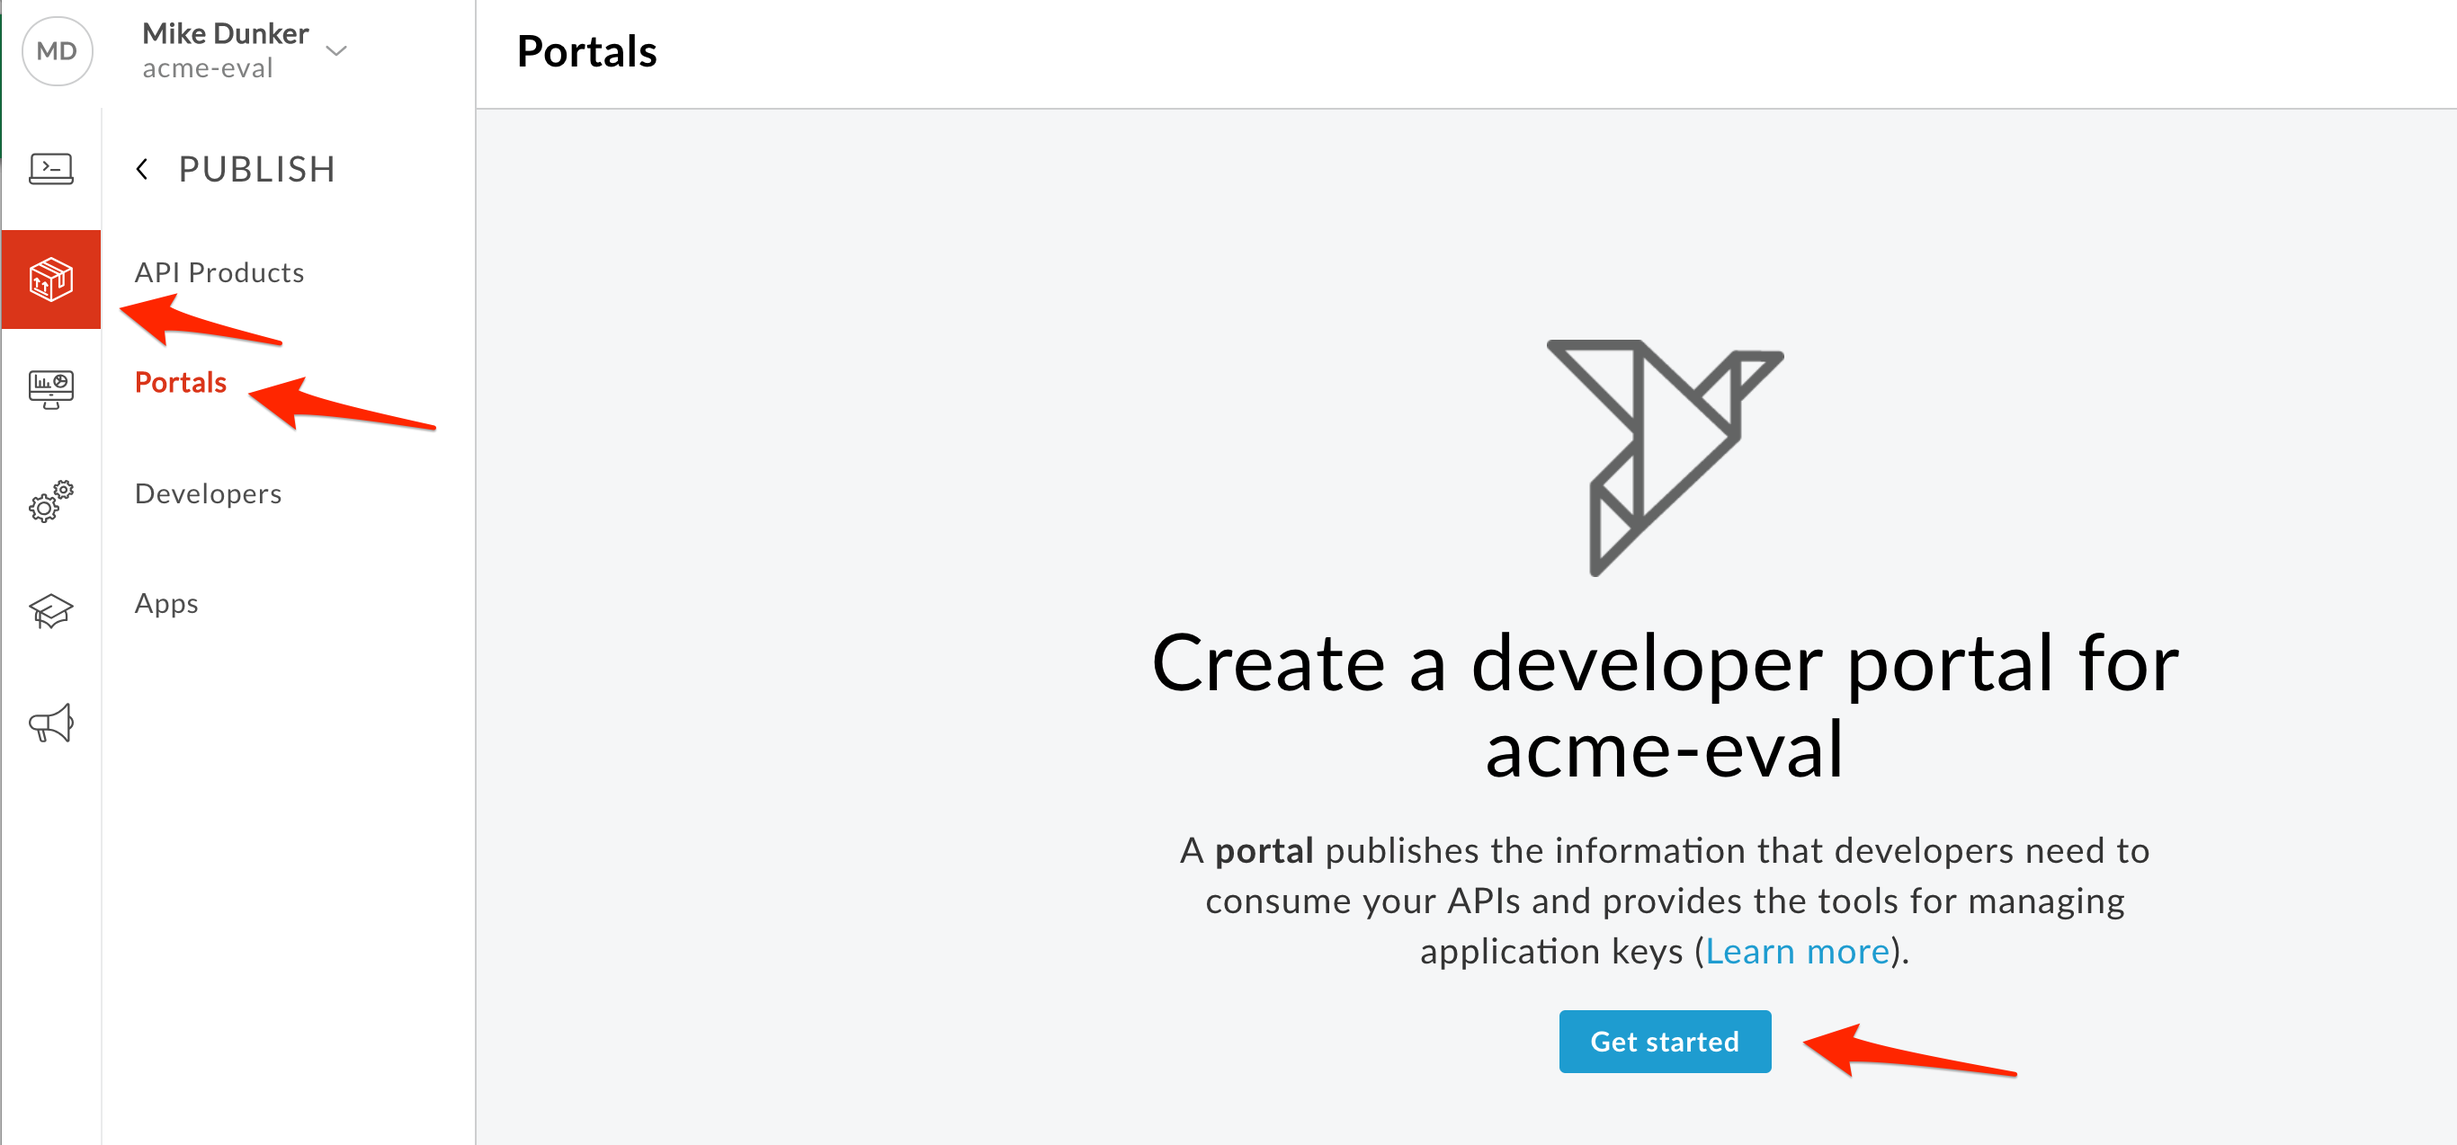
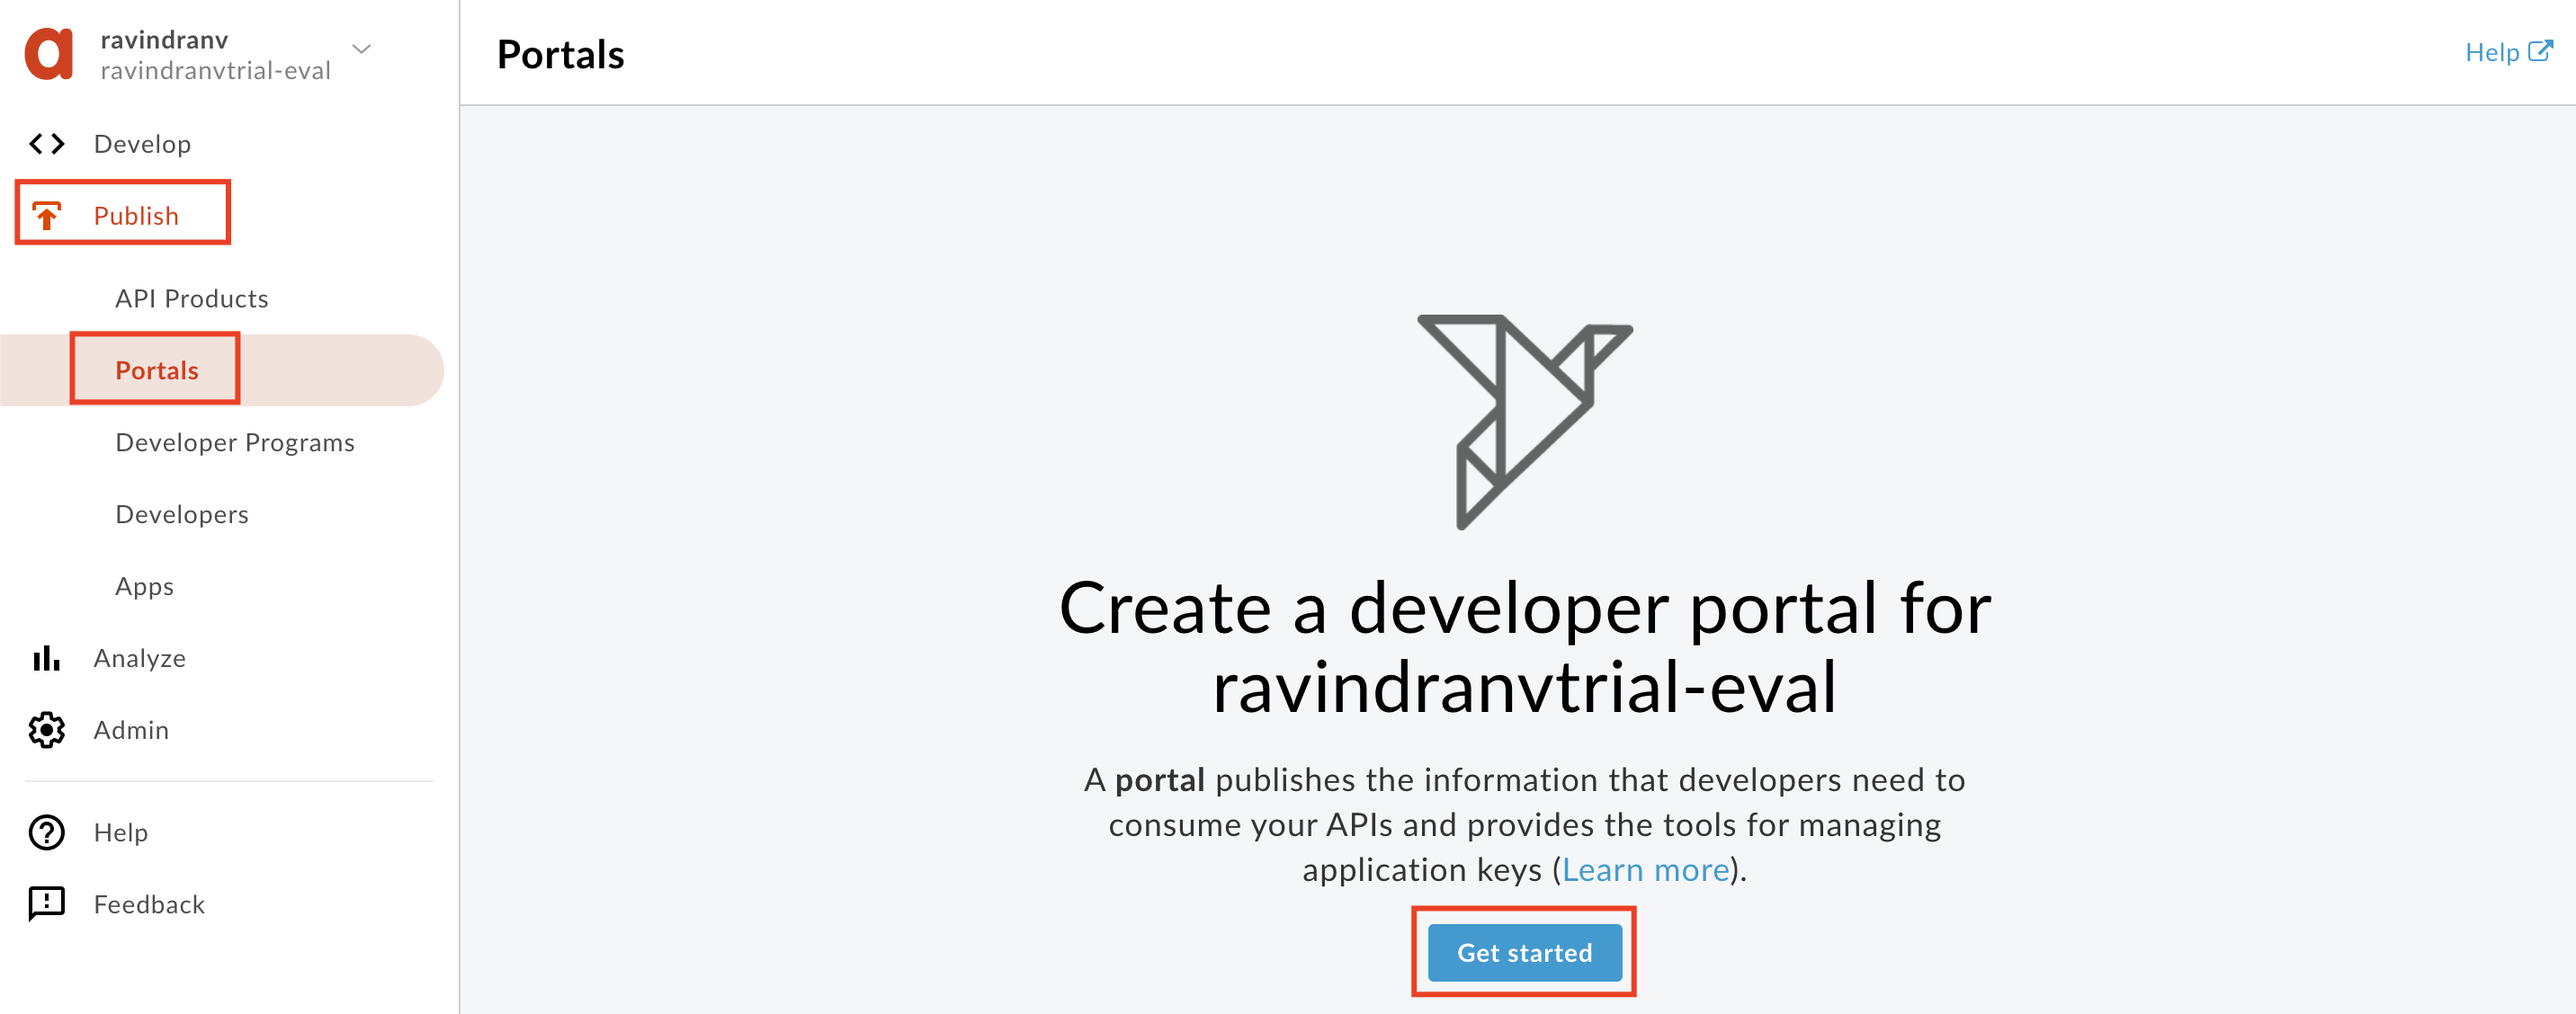
Changes to Lab 4

diff --git a/Module-1/Labs/Lab 4/README.md b/Module-1/Labs/Lab 4/README.md
@@ -32,99 +32,70 @@ In this lab, you will create an Integrated Developer Portal wherein you will pub
 
 # Pre-requisites
 
-For this lab, you should have completed [Lab 1](https://github.com/aliceinapiland/apijam/tree/master/Module-1/Labs/Lab%201) and [Lab 2](https://github.com/aliceinapiland/apijam/tree/master/Module-1/Labs/Lab%202).
+For this lab, you should have completed [Lab 1](https://github.com/aliceinapiland/apijam/tree/master/Module-1/Labs/Lab%201), [Lab 2](https://github.com/aliceinapiland/apijam/tree/master/Module-1/Labs/Lab%202) and [Lab 3](https://github.com/aliceinapiland/apijam/tree/master/Module-1/Labs/Lab%203) of this module.
 
 You will need…
 
 * An OpenAPI specification uploaded to your Spec store within your Organization. This specification will make up the documentation of your API.  If you do not have an OpenAPI Specification available for this lab, revisit [*Lab 1 - Design & Create an API Proxy with OpenAPI Specification*](https://github.com/aliceinapiland/apijam/tree/master/Module-1/Labs/Lab%201)
-* An API Product that bundles and API Proxy. If you do not have an API Product configured, revisit [*Lab 2 - API Security and API Producer/Consumer Relationship on Apigee Edge*](https://github.com/aliceinapiland/apijam/tree/master/Module-1/Labs/Lab%202).
+* API Products that bundle your API Proxies. If you do not have an API Product configured, revisit [*Lab 2 - API Security and API Producer/Consumer Relationship on Apigee Edge*](https://github.com/aliceinapiland/apijam/tree/master/Module-1/Labs/Lab%202), and [Lab 3 - Manage tiered API Product subscription through API call quotas](https://github.com/aliceinapiland/apijam/tree/master/Module-1/Labs/Lab%203).
 
 # Instructions
 
 ## Update the Open API Spec
 
 In order to ensure that we have an updated OpenAPI Spec that accurately describes the API endpoint exposed through our API Proxy, we must first modify the spec - specifically the `host` and `basepath` properties. To do this, navigate to **Develop → Specs** on the main menu, select the spec that we previously imported in Lab 1, and modify the the `host` and `basepath` properties to reflect the host and basepath of the proxy. Change them to:
-* host: {{your API proxy host}}  <--- In Apigee Trial orgs this will be {{your org}}-{{environment}}.apigee.net
+* `host: {{your API proxy host}}`  _<--- In Apigee Trial orgs this will be {{your org}}-{{environment}}.apigee.net_
+* `basepth: /v1/{{your initials}}_hipster-products-api`
 
-## Publish API as part of API Product
+![image alt text](./media/EditSpec.png)
 
-API products (which contain API proxies) are the unit of deployment to the Developer Portal, where App Developers can learn about, register for, and consume your APIs.  Read more about API products [here](https://docs.apigee.com/api-platform/publish/what-api-product).
+## Create a Developer Portal
 
-* Select **Publish → API Products** from the side navigation menu
-
-* Click  **+API Product**
-
-![image alt text](./media/image_0.png)
-
-* Populate the following fields
-
-    * Section: Product details
-
-        * Name: employee-product
-        
-        * Display name: Employee Product
-
-        * Description: Access the Employee API
-
-        * Environment: test
-
-        * Access: Public
-
-    * Section: API resources
-
-        * Section: API Proxies
-
-            * Click the **Add a proxy** link
-
-            ![image alt text](./media/image_1.png)
-
-            * Select your Employee API Proxy and click **Add**.
-
-            ![image alt text](./media/image_2.png)
-
-* **Save** the API Product.
-
-Note: We are adding the entire API Proxy to the API Product.  We can just as easily select one or more operations from one or more API proxies and bundle them together in an API Product.
-
-## Publish a new Portal on Apigee Edge
-
-* Select **Publish → Portals → +Portal**
+1. Navigate to **Publish → Portals** and click **+Portal**, or **Get started** (if you haven't created any portals yet within the org).
 
 ![image alt text](./media/image_3.png)
 
-* Enter details in the portal creation wizard. Replace **{your-initials}** with the initials of your name and replace **{api_proxy_name}** with the name of the proxy.
+2. Enter details in the portal creation wizard. Replace **{{your-initials}}** with the initials of your name.
 
-  * Name: Employee API Portal
+  * Name: {{your initials}}\_Hipster API Portal
 
-  * Description: Employee APIs
+  * Description: Developer portal for consumption of Hipster APIs.
 
-* Click **Create**
+3. Click **Create**
 
 ![image alt text](./media/image_4.png)
 
-## Publish an API Product to the Portal
+## Publish the Bronze API Product to the Portal
 
-* Click the Portal Editor’s dropdown and select **APIs**.
+1. Click the Portal Editor’s dropdown and select **APIs**.
 
 ![image alt text](./media/image_5.png)
 
-* Click **+API** to select an API Product to publish to the Portal.
-
-* Select the API Product to publish and click **Next**.
+2. Click **+API** to select the Bronze API Product to publish to the Portal. Select the API Product to publish and click **Next**.
 
 ![image alt text](./media/image_6.png)
 
-* Click the **Spec Source** dropdown and select **Choose a different spec...**.
+3. Click the **Change Spec Source** dropdown and select **Choose a different spec...**.
 
 ![image alt text](./media/image_7.png)
 
-* Select the OpenAPI Specification to use as a source. (NOTE: technically, you should update the "host:" and "path:" variables in your OpenAPI Spec that you created in Lab 1 so they now point to your API proxy hosted on Apigee, as well as add the API key you have in your proxy to the spec. However, for the purposes of this lab, it is also OK to use your existing OpenAPI Spec as is.) The current version (snapshot) of the selected OpenAPI Specification will be used to generate the documentation for this API product in the portal.
+4. Select the recently updated OpenAPI Specification to use as a source. The current version (snapshot) of the selected OpenAPI Specification will be used to generate the documentation for this API product in the portal.
 
 ![image alt text](./media/image_8.png)
 
-* Select the "Anonymous users (anyone can view)" option so anyone can view this API through the portal. Click **Finish** to publish the API product (and OpenAPI Specification Snapshot) to the Developer Portal.
+5. Select the **Registered users** option so registered developers on the Developer Portal can view this API through the portal. Click **Next**.
 
 ![image alt text](./media/image_9.png)
+
+6. Select the **Image** button to update the icon image associated with this API product. 
+
+![image alt text](./media/image_9b.png)
+
+7. Then select **External Image** and provide the following URL to import image.
+
+`Image URL: `
+
+
 
 * You should now see your new API Product published to the portal.
 
